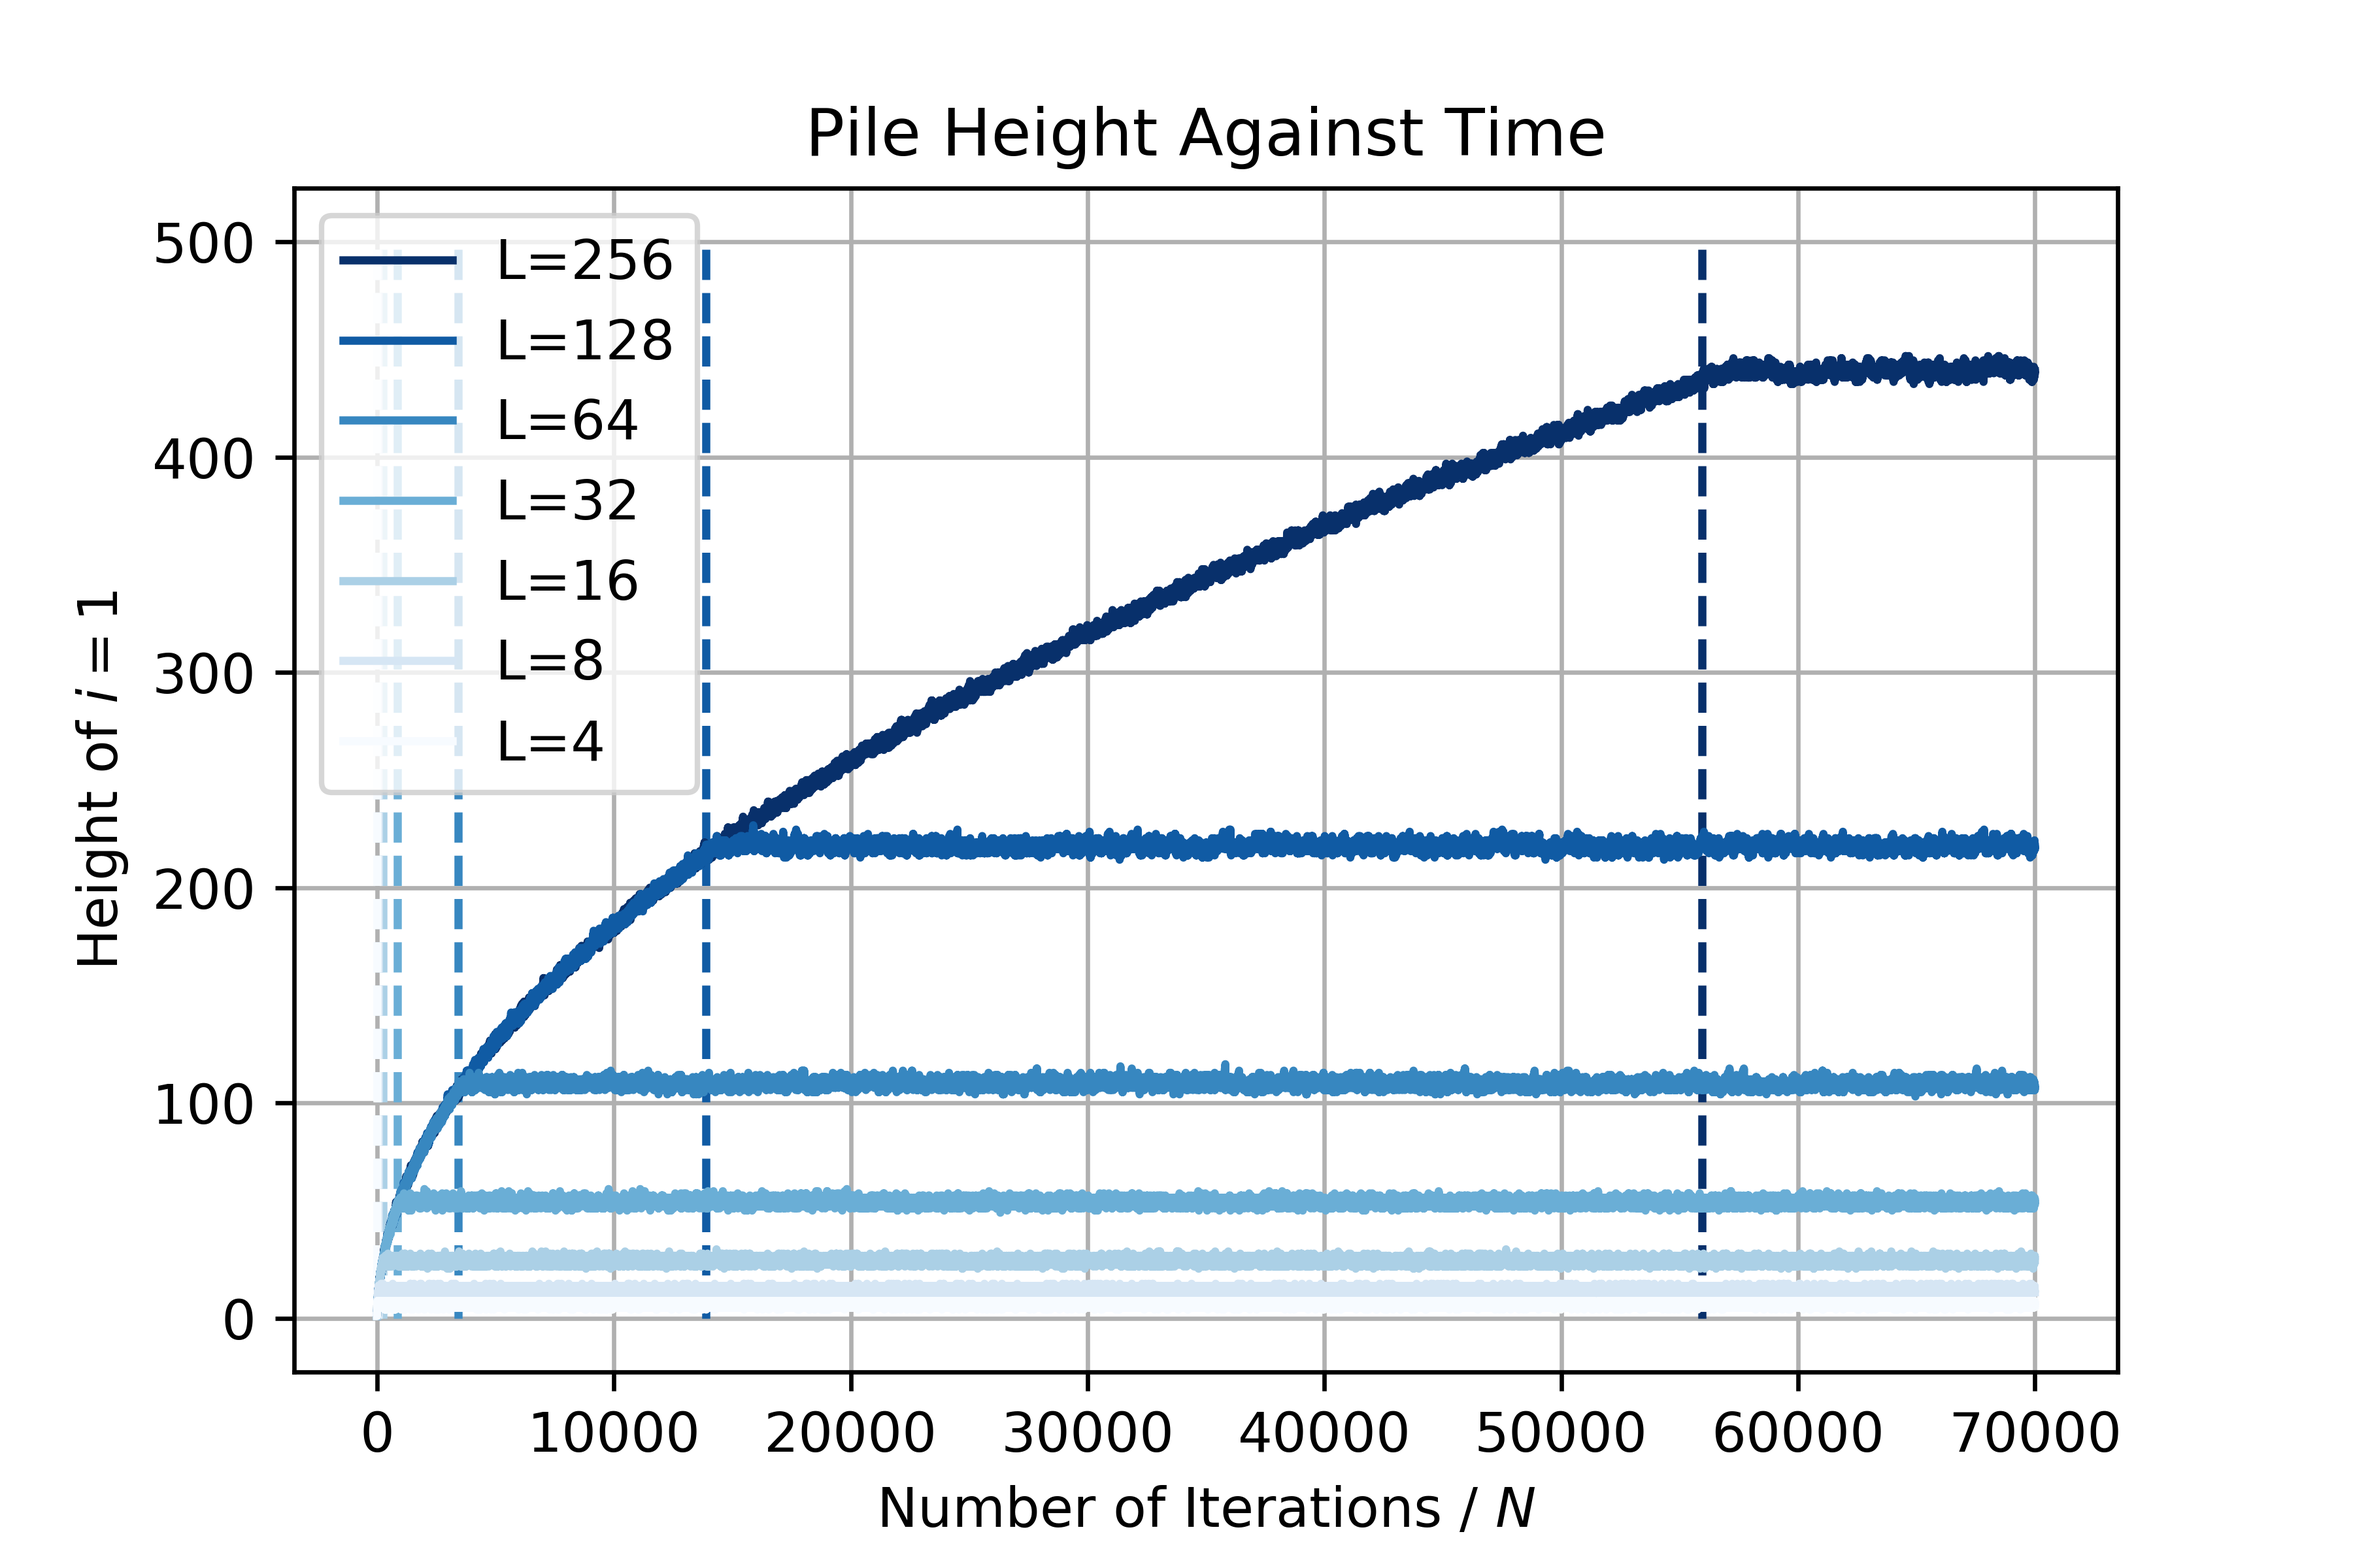
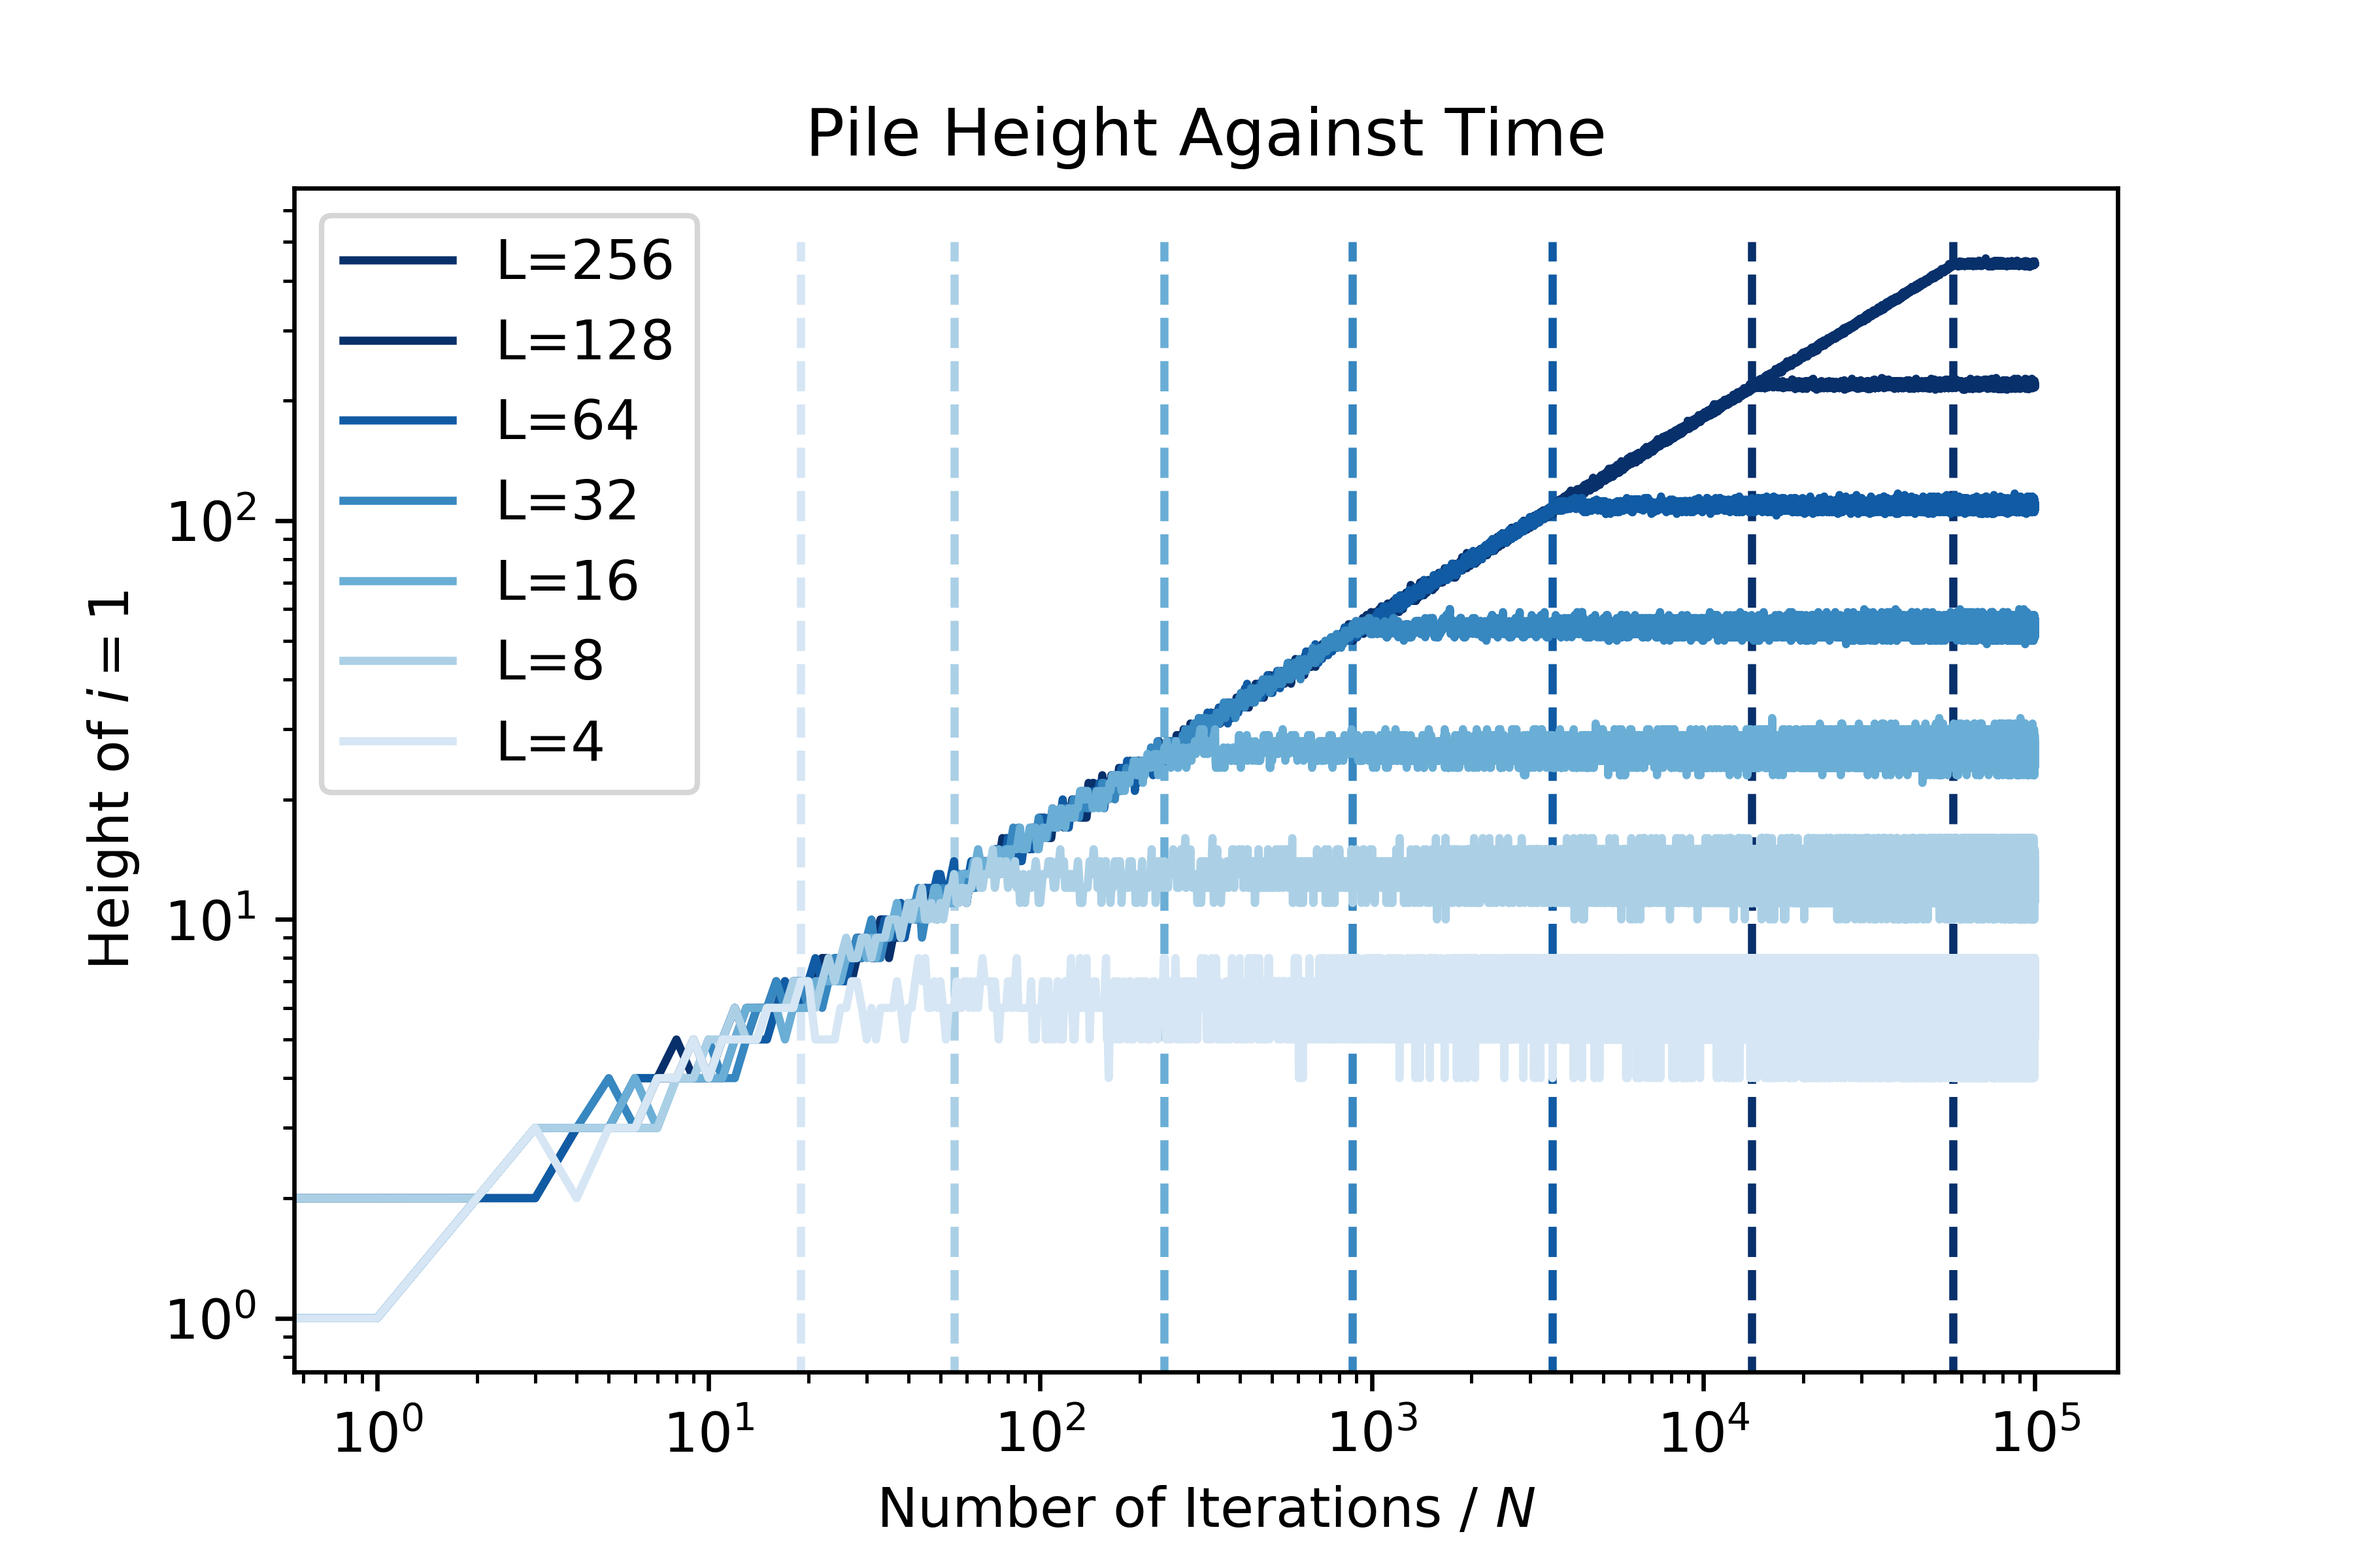
update

diff --git a/main.py b/main.py
@@ -12,7 +12,7 @@ Oslo.simulate(10, animate=True, data_height_1=False)
 n = 7
 L = pk.np.logspace(2, n+1, base=2, num=n)
 N = [100, 200, 600, 2500, 7500, 20000, 70000]
-N = [70000, 70000, 70000, 70000, 70000, 70000, 70000]
+N = [100000, 100000, 100000, 100000, 100000, 100000, 100000]
 c = pk.np.arange(1, n+1)
 
 norm = pk.mpl.colors.Normalize(vmin=c.min(), vmax=c.max())
@@ -23,18 +23,20 @@ for i in pk.tqdm(range(n-1, -1, -1)):
     Oslo = cl.Model(int(L[i]), 0.5)
     Oslo.simulate(N[i], data_height_1=True)
     height_1 = Oslo.height_1()
-    pk.plt.plot(pk.np.arange(0, N[i], 1), height_1, c=cmap.to_rgba(i+1),
+    pk.plt.plot(pk.np.arange(0, N[i], 1), height_1, c=cmap.to_rgba(i+2),
                 label="L=%s" % (int(L[i])))
     mean = pk.np.mean(height_1[(len(height_1)-100):])
     steady_pos = pk.np.where(height_1 > mean)[0][0]
     pk.plt.vlines(steady_pos, 0, 500, linestyles='dashed',
-                  color=cmap.to_rgba(i+1))
+                  color=cmap.to_rgba(i+2))
+
 
 pk.plt.title("Pile Height Against Time")
 pk.plt.xlabel("Number of Iterations / $N$")
 pk.plt.ylabel("Height of $i=1$")
 pk.plt.legend()
-pk.plt.grid()
+pk.plt.xscale('log')
+pk.plt.yscale('log')
 pk.plt.savefig("Figures/Fig_Task2a.png", dpi=600)
 pk.plt.show()
 
@@ -42,8 +44,8 @@ pk.plt.show()
 # Task 2b
 
 
-def quad(x, a, b, c):
-    return a * x ** 2 + b * x + c
+def linear(x, a, b, c):
+    return a * x + b
 
 
 L = pk.np.arange(2, 10, 1)
@@ -62,21 +64,43 @@ for i in pk.tqdm(L):
     av_t_c.append(pk.np.mean(t_c))
     av_t_c_error.append(pk.np.std(t_c)/pk.np.sqrt(n))
 
-fit = pk.curve_fit(quad, L, av_t_c)
-x = pk.np.arange(0, L[len(L)-1]+1, 0.01)
+fit = pk.curve_fit(linear, pk.np.log(L), pk.np.log(av_t_c))
+x = pk.np.arange(0, pk.np.log(L)[len(L)-1]+0.5, 0.01)
 
-pk.plt.plot(x, quad(x, *fit[0]), color='black', linestyle='dashed',
+pk.plt.plot(x, linear(x, *fit[0]), color='black', linestyle='dashed',
             label='Quadratic Fit')
-pk.plt.errorbar(L, av_t_c, yerr=av_t_c_error, ls='none', marker='x',
-                color='black', label='Average Time')
+pk.plt.scatter(pk.np.log(L), pk.np.log(av_t_c), marker='x', color='black',
+               label='Average Time')
 pk.plt.title("Cross-Over Time with System Size")
 pk.plt.xlabel("System Size $L$")
-pk.plt.ylabel("Average Cross-Over Time  $av(t_c(L) )$")
+pk.plt.ylabel("Average Cross-Over Time  $\log \overline{t_c(L)}$")
 pk.plt.grid()
 pk.plt.legend()
 pk.plt.savefig("Figures/Fig_Task2b.png", dpi=600)
 pk.plt.show()
 
 # %%
-# Task 2c
+# Task 2d
+
+import packages as pk
+import classes as cl
+
+N = 1000
+
+L = pk.np.arange(2, 16, 1)
+L_av_height = list()
+for i in pk.tqdm(L):
+    height_j = list()
+    M = 10
+    for j in range(M):
+        Oslo = cl.Model(int(i), 0.5)
+        Oslo.simulate(N, data_height_1=True)
+        height_j.append(Oslo.ave_height_1())
+    L_av_height.append(pk.np.mean(height_j))
+
+pk.plt.scatter(L, L_av_height, marker='x')
+
+
+
+
 

diff --git a/classes.py b/classes.py
@@ -107,6 +107,18 @@ class Model:
     def height_1(self):
         return self.__data_height_1
 
+    def solid_state(self):
+        array_size = len(self.height_1())
+        minr = pk.np.max(self.__data_height_1[array_size-100:])
+        for i in range(len(self.__data_height_1)):
+            if self.__data_height_1[i] > minr:
+                return i + 100
+
+    def ave_height_1(self):
+        ss_time = self.solid_state()
+        av = pk.np.mean(self.__data_height_1[ss_time:])
+        return av
+
     def grains(self):
         return pk.np.sum(self.__heights)
 
